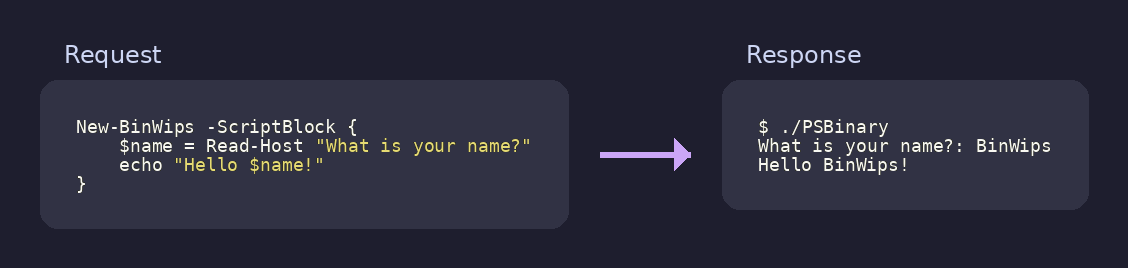
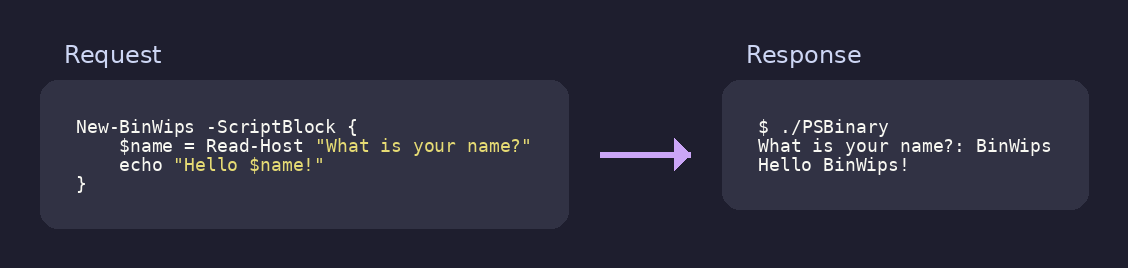
Fix three interactive/render bugs
- Clipboard no longer auto-grabs on startup. Image is only inserted when
  the user submits an empty block (the explicit "paste" gesture). Also
  drops the now-unused mid-input polling helpers.
- Remove :cancel — Ctrl+C handles abort natively. Update banner + README.
- Fix text fringe: render code on PANEL_BG via a Monokai subclass so
  antialiased glyph edges blend against the right color. Drops the
  binary-alpha _strip_bg hack that was producing the visible halo.

Sample PNGs regenerated. 42 tests pass.

diff --git a/src/interactive.py b/src/interactive.py
@@ -1,6 +1,5 @@
 import hashlib
 import io
-import select
 import sys
 import tempfile
 from typing import Optional
@@ -18,9 +17,6 @@ from .io_utils import (
     try_get_clipboard_image,
 )
 from .markdown import Panel, parse_markdown
-
-
-CLIPBOARD_POLL_SECONDS = 0.25
 
 
 def _build_session():
@@ -67,16 +63,6 @@ def _clipboard_image_snapshot() -> Optional[tuple[str, Image.Image]]:
     return hashlib.sha1(buf.getvalue()).hexdigest(), img
 
 
-def _stdin_ready(timeout: float) -> bool:
-    """True if sys.stdin has a line waiting. Falls back to True when stdin
-    doesn't support select (e.g. StringIO in tests)."""
-    try:
-        ready, _, _ = select.select([sys.stdin], [], [], timeout)
-        return bool(ready)
-    except (OSError, ValueError, io.UnsupportedOperation):
-        return True
-
-
 def _save_clipboard_image_as_panel(img: Image.Image, panels: list[Panel]) -> None:
     tmp = tempfile.NamedTemporaryFile(prefix="codeimg-clip-", suffix=".png", delete=False)
     img.convert("RGBA").save(tmp.name, format="PNG")
@@ -100,18 +86,11 @@ def _check_clipboard_for_new_image(
 def _read_block_or_image_tty(
     panels: list[Panel], last_image_hash: Optional[str]
 ) -> tuple[str, str, Optional[str]]:
-    """TTY path: full multi-line editor via prompt_toolkit. Clipboard is
-    checked before showing the prompt and again after submission if no
-    text was typed — so a newly-copied image still becomes the next panel
-    on the very next Enter, without the user needing a command."""
-    pre = _check_clipboard_for_new_image(panels, last_image_hash)
-    if pre is not None:
-        return pre
-
+    """TTY path: full multi-line editor via prompt_toolkit. Submitting an
+    empty block grabs the current clipboard image if there is one — this
+    is the explicit "paste image" gesture."""
     text = _read_text_block_tty()
     if text is None:
-        return "cancel", "", last_image_hash
-    if text.strip() == ":cancel":
         return "cancel", "", last_image_hash
 
     if not text.strip():
@@ -125,37 +104,34 @@ def _read_block_or_image_tty(
 def _read_block_or_image_polling(
     panels: list[Panel], last_image_hash: Optional[str]
 ) -> tuple[str, str, Optional[str]]:
-    """Non-TTY path (pipes, tests): line-based input with concurrent
-    clipboard polling, two-blank-lines or EOF to submit."""
+    """Non-TTY path (pipes, tests): line-based input, two-blank-lines or
+    EOF to submit. Submitting an empty block grabs the current clipboard
+    image if there is one."""
     lines: list[str] = []
     blank_run = 0
 
     while True:
-        if not lines:
-            result = _check_clipboard_for_new_image(panels, last_image_hash)
-            if result is not None:
-                return result
-
-        if _stdin_ready(CLIPBOARD_POLL_SECONDS):
-            line = sys.stdin.readline()
-            if not line:  # EOF / Ctrl+D
+        line = sys.stdin.readline()
+        if not line:  # EOF / Ctrl+D
+            break
+        line = line.rstrip("\n")
+        if line == "":
+            blank_run += 1
+            if blank_run >= 2:
                 break
-            line = line.rstrip("\n")
-            if line.strip() == ":cancel":
-                return "cancel", "", last_image_hash
-            if line == "":
-                blank_run += 1
-                if blank_run >= 2:
-                    break
-                lines.append(line)
-            else:
-                blank_run = 0
-                lines.append(line)
-        # else: timeout — loop to re-poll clipboard
+            lines.append(line)
+        else:
+            blank_run = 0
+            lines.append(line)
 
     while lines and lines[-1] == "":
         lines.pop()
-    return "text", "\n".join(lines), last_image_hash
+    text = "\n".join(lines)
+    if not text.strip():
+        post = _check_clipboard_for_new_image(panels, last_image_hash)
+        if post is not None:
+            return post
+    return "text", text, last_image_hash
 
 
 def _read_block_or_image(
@@ -186,8 +162,8 @@ def interactive_compose(args) -> None:
     print("Codeimg interactive mode")
     print("Paste code or markdown — ```lang fences set syntax, the line above is the title.")
     print("End a text block with two blank lines (or Ctrl+D).")
-    print("Paste an image into your clipboard and it's added automatically as the next panel.")
-    print("Type :cancel on its own line to abort.\n")
+    print("To insert a clipboard image, copy it then submit an empty block (Enter on a blank line).")
+    print("Ctrl+C to abort.\n")
 
     panels: list[Panel] = []
     last_image_hash: Optional[str] = None

diff --git a/tests/test_interactive.py b/tests/test_interactive.py
@@ -27,17 +27,18 @@ def _run(monkeypatch, argv, stdin):
     main()
 
 
-def test_clipboard_image_is_auto_added_and_advances(tmp_path: Path, monkeypatch, capsys):
-    """An image in the clipboard at block-prompt time is added as a panel,
-    '[Image 1]' is printed, and no action menu is shown for that block."""
+def test_clipboard_image_only_added_on_empty_submission(tmp_path: Path, monkeypatch, capsys):
+    """A clipboard image must NOT auto-add on startup. It's only grabbed
+    when the user explicitly submits an empty block (the paste gesture)."""
     img = Image.new("RGB", (40, 30), (200, 100, 50))
-    _set_clipboard(monkeypatch, [img])
+    monkeypatch.setattr(interactive_mod, "try_get_clipboard_image", lambda: img.copy())
 
+    # Block 1: empty submission → triggers clipboard grab → image added.
+    # Block 2: 'code' text. Then 'd' done.
     stdin = (
-        "code line\n"  # block 2: text
-        "\n"
-        "\n"
-        "d\n"  # done
+        "\n\n"      # block 1: empty submission grabs clipboard
+        "code\n\n\n"  # block 2: text
+        "d\n"       # done
     )
     out = tmp_path / "x.png"
     _run(monkeypatch, ["--out", str(out)], stdin)
@@ -46,19 +47,37 @@ def test_clipboard_image_is_auto_added_and_advances(tmp_path: Path, monkeypatch,
     assert out.exists() and out.stat().st_size > 0
 
 
-def test_same_clipboard_image_is_not_added_twice(tmp_path: Path, monkeypatch, capsys):
-    """If the clipboard still holds the same image on the next block, it
-    must not auto-add again — the user wanted one image, not many."""
+def test_no_startup_clipboard_grab(tmp_path: Path, monkeypatch, capsys):
+    """Regression: an image in the clipboard at app launch must NOT be
+    auto-inserted as the first panel. The user has to ask for it."""
     img = Image.new("RGB", (40, 30), (200, 100, 50))
-    # Returns the same image on every call
+    monkeypatch.setattr(interactive_mod, "try_get_clipboard_image", lambda: img.copy())
+
+    # Block 1: just text, no empty submission. Image must not appear.
+    stdin = (
+        "print('hi')\n\n\n"
+        "d\n"
+    )
+    out = tmp_path / "x.png"
+    _run(monkeypatch, ["--out", str(out)], stdin)
+    output = capsys.readouterr().out
+    assert "[Image" not in output, output
+    assert out.exists() and out.stat().st_size > 0
+
+
+def test_same_clipboard_image_is_not_added_twice(tmp_path: Path, monkeypatch, capsys):
+    """If the user submits two empty blocks with the same image still in
+    clipboard, dedup prevents double-add."""
+    img = Image.new("RGB", (40, 30), (200, 100, 50))
     monkeypatch.setattr(interactive_mod, "try_get_clipboard_image", lambda: img.copy())
 
     stdin = (
-        "a\n"      # block 2: action menu wants 'add' after the second block
-        "code\n"   # block 2 content
-        "\n"
-        "\n"
-        "d\n"      # done
+        "\n\n"        # block 1: empty → clipboard image added
+        "a\n"         # action: add another
+        "\n\n"        # block 2: empty → clipboard checked, same image, no re-add
+        "a\n"         # action: add another
+        "code\n\n\n"  # block 3: text (so we have something to render)
+        "d\n"         # done
     )
     out = tmp_path / "x.png"
     _run(monkeypatch, ["--out", str(out)], stdin)

diff --git a/src/highlight.py b/src/highlight.py
@@ -5,9 +5,17 @@ from PIL import Image
 from pygments import highlight
 from pygments.formatters.img import ImageFormatter
 from pygments.lexers import get_lexer_by_name, guess_lexer, guess_lexer_for_filename
+from pygments.styles.monokai import MonokaiStyle
 from pygments.util import ClassNotFound
 
-from .colors import CODE_BG_HEX
+from .colors import PANEL_BG_HEX
+
+
+class _PanelMonokai(MonokaiStyle):
+    """Monokai token colors on the panel background so antialiased glyph
+    edges blend cleanly against the panel — no Monokai-tinted fringe."""
+    background_color = PANEL_BG_HEX
+    highlight_color = PANEL_BG_HEX
 
 
 def detect_lexer(code: str, lang: Optional[str], filename: Optional[str]) -> Tuple[str, object]:
@@ -27,36 +35,20 @@ def detect_lexer(code: str, lang: Optional[str], filename: Optional[str]) -> Tup
         return "text", get_lexer_by_name("text")
 
 
-def _strip_bg(img: Image.Image) -> Image.Image:
-    """Make a flat-colored image background transparent.
-    Samples the corner pixel as the bg color."""
-    img = img.convert("RGBA")
-    bg = img.getpixel((0, 0))
-    if not isinstance(bg, tuple) or len(bg) < 3:
-        return img
-    br, bg_, bb = bg[0], bg[1], bg[2]
-    pixels = list(img.getdata())
-    new_pixels = [
-        (r, g, b, 0) if (r == br and g == bg_ and b == bb) else (r, g, b, a)
-        for (r, g, b, a) in pixels
-    ]
-    img.putdata(new_pixels)
-    return img
-
-
 def render_code_image(code: str, lang: Optional[str], filename_hint: Optional[str]) -> Image.Image:
+    """Render `code` to an RGBA image with the same background as the
+    surrounding panel, so antialiased glyph edges blend cleanly when
+    composited (no Monokai-tinted fringe)."""
     _, lexer = detect_lexer(code, lang, filename_hint)
     formatter = ImageFormatter(
-        style="monokai",
+        style=_PanelMonokai,
         font_name="DejaVu Sans Mono",
         font_size=18,
         line_numbers=False,
         image_format="PNG",
         image_pad=12,
-        background_color=CODE_BG_HEX,
-        hl_color=CODE_BG_HEX,
     )
     buf = io.BytesIO()
     highlight(code, lexer, formatter, outfile=buf)
     buf.seek(0)
-    return _strip_bg(Image.open(buf))
+    return Image.open(buf).convert("RGBA")

diff --git a/tests/test_highlight.py b/tests/test_highlight.py
@@ -1,21 +1,17 @@
+from codeimg.colors import PANEL_BG
 from codeimg.highlight import render_code_image
 
 
-def test_render_code_image_has_transparent_bg_so_it_blends_on_panel():
-    """The whole point of render_code_image's bg-strip step: when the
-    image is pasted onto the panel rounded rectangle, the panel color
-    must show through everywhere there isn't a glyph. We verify that by
-    asserting every fully-transparent OR every fully-opaque pixel — no
-    leftover opaque background-colored pixels around the text."""
+def test_render_code_image_uses_panel_bg_so_no_fringe():
+    """Code images are rendered directly on the panel background color
+    so antialiased glyph edges blend cleanly when composited. Verify by
+    asserting the corner pixel matches PANEL_BG exactly — if a different
+    bg color crept in, we'd reintroduce the Monokai-vs-panel fringe."""
     img = render_code_image("x = 1", "python", None)
     assert img.mode == "RGBA"
-    # The corners and any non-glyph areas must be transparent.
-    assert img.getpixel((0, 0))[3] == 0
-    assert img.getpixel((img.width - 1, 0))[3] == 0
-    assert img.getpixel((0, img.height - 1))[3] == 0
-    # Some glyph pixel must be opaque, or rendering is broken.
-    pixels = list(img.getdata())
-    assert any(p[3] == 255 for p in pixels), "no opaque pixels — code didn't render"
+    corner = img.getpixel((0, 0))
+    assert corner[:3] == PANEL_BG, f"corner {corner[:3]} should be PANEL_BG {PANEL_BG}"
+    assert corner[3] == 255
 
 
 def test_render_code_image_unknown_lang_does_not_raise():

diff --git a/src/colors.py b/src/colors.py
@@ -1,7 +1,6 @@
 DEFAULT_BG = (30, 30, 46)
 PANEL_BG = (49, 50, 68)
 PANEL_BG_HEX = "#%02x%02x%02x" % PANEL_BG
-CODE_BG_HEX = "#272822"
 TEXT = (205, 214, 244)
 SUBTLE = (166, 173, 200)
 ARROW = (203, 166, 247)

diff --git a/README.md b/README.md
@@ -26,24 +26,25 @@ Run `codeimg` with no arguments. Each block opens a multi-line editor:
 - Arrow keys move the cursor (including across lines)
 - **Enter** submits the block
 - **Alt+Enter** (or **Ctrl+J**) inserts a newline
-- Type `:cancel` on its own line to abort
+- **Ctrl+C** to abort
 
-Copy an image into the clipboard and codeimg picks it up automatically
-at the next block boundary — no command, no action key.
+To insert a clipboard image as a panel: copy the image, then submit an
+empty block (press Enter on a blank line). The clipboard contents become
+the next panel.
 
 ```text
 $ codeimg --out out.png
 --- Block 1 ---
-[Image 1]                     ← clipboard image, auto-advanced
---- Block 2 ---
 def hi():
     print("hello")            ← Alt+Enter for newline, Enter to submit
 [a]dd / [d]one / [e]dit N / [r]emove N / [q]uit: a
+--- Add block 2 ---
+                              ← Enter on blank line; clipboard image grabbed
+[Image 2]
 ```
 
-Clipboard images are fetched via `wl-paste` or `xclip`; whatever's on
-the clipboard at the start of a block prompt becomes the next panel.
-The same image is only added once — copy a new image to add another.
+Clipboard images are fetched via `wl-paste` or `xclip`. The same image
+is only added once — copy a new image to add another.
 
 When stdin isn't a TTY (piped input, scripts), the editor falls back to
 line-based input: two blank lines or Ctrl+D end a block.
